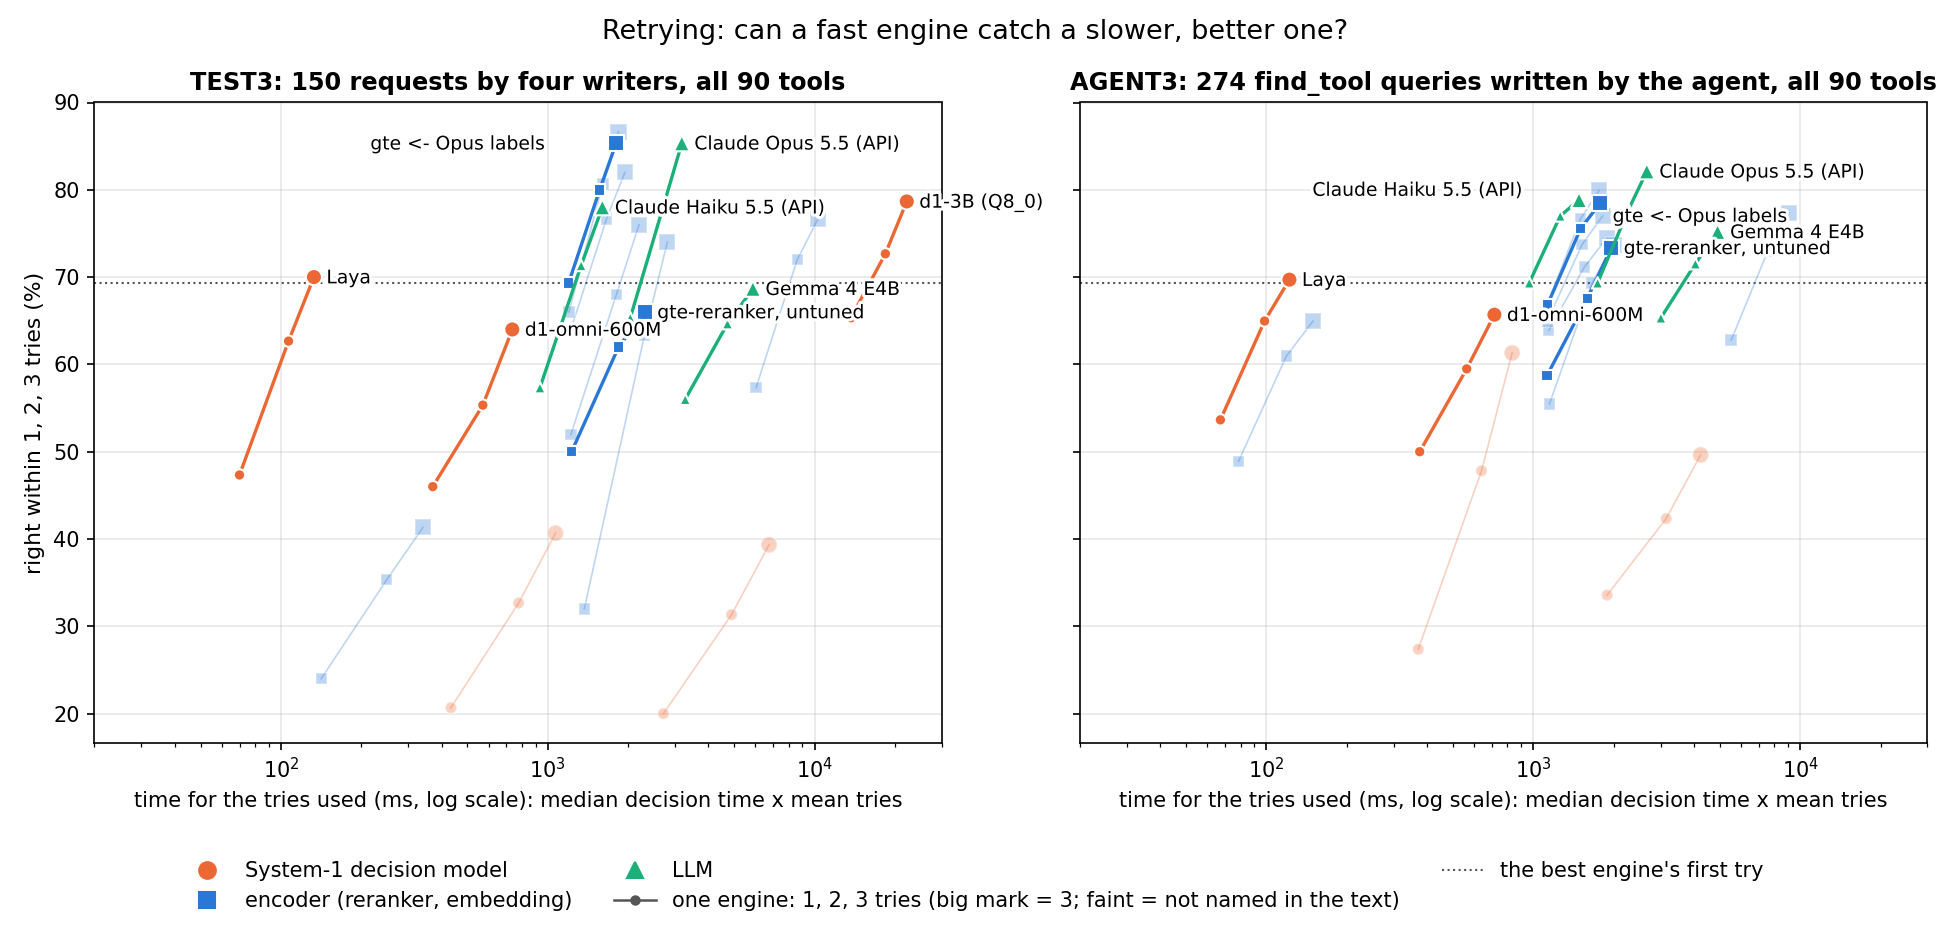
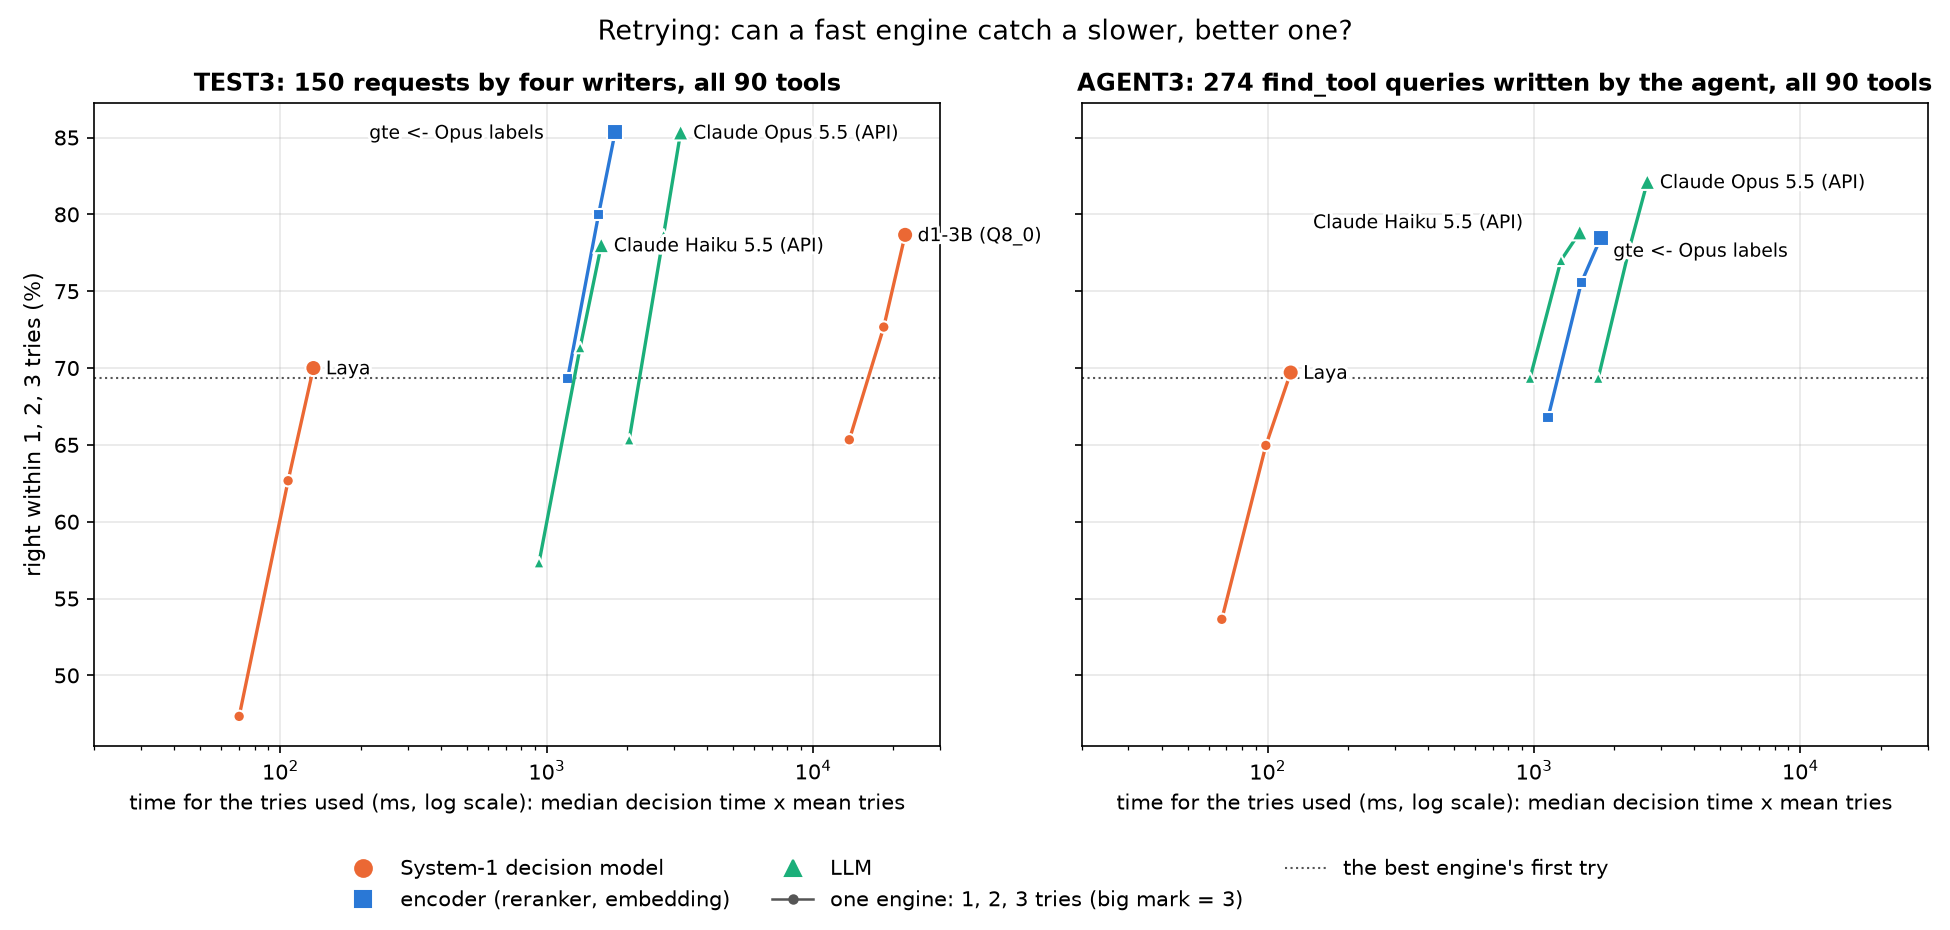
Study charts: only the engines the story turns on (8 in the hero, 5 in retries); the table keeps every engine

diff --git a/bench/naga/plot.py b/bench/naga/plot.py
@@ -44,9 +44,10 @@ OFFSET = {"TEST3": {"gte-opus": (-60, 8), "gte-agreed": (-128, -4), "gte-haiku":
                      "gte-gemma4": (8, -6), "harrier-bi": (8, -12),
                      "qwen3-rerank": (8, 4)}}
 YLIM = (15, 75)
-# The engines the study's text names stand out in the retries chart; the rest are drawn faint, unlabelled.
+# The charts show only the engines the story needs (Matteo 2026-10-21); the table keeps every engine.
+CHART = ("gte-rerank", "gte-haiku", "gte-opus", "laya", "d1-3b", "gemma4", "haiku", "opus")
+RETRY = ("laya", "gte-opus", "d1-3b", "haiku", "opus")
 RETRY_OFFSET = {"TEST3": {"gte-opus": (-118, -3)}, "AGENT3": {"haiku": (-128, 2), "gte-opus": (6, -9)}}
-NAMED = ("laya", "d1-omni", "gte-rerank", "gte-opus", "d1-3b", "gemma4", "haiku", "opus")
 
 
 def load(engine, key):
@@ -85,7 +86,7 @@ def frontier(pts):
 
 def points(key):
     pts = {}
-    for e in ENGINES:
+    for e in CHART:
         rows = load(e, key)
         if rows:
             pts[e] = (ms(rows), 100 * within(rows, 1) / len(rows))
@@ -163,12 +164,13 @@ def retries():
         best = max(ENGINES, key=lambda e: within(load(e, key) or [], 1) / len(load(e, key) or [0]))
         rows = load(best, key)
         ax.axhline(100 * within(rows, 1) / len(rows), ls=":", color="#555", lw=1)
-        for e, (label, kind) in ENGINES.items():
+        for e in RETRY:
+            label, kind = ENGINES[e]
             rows = load(e, key)
             if not rows:
                 continue
             m, c = KINDS[kind]
-            on = e in NAMED
+            on = True
             xs = [ms(rows) * tries(rows, k) for k in (1, 2, 3)]
             ys = [100 * within(rows, k) / len(rows) for k in (1, 2, 3)]
             ax.plot(xs, ys, color=c, lw=1.6 if on else 0.8, alpha=1 if on else 0.3, zorder=3 if on else 2)
@@ -182,7 +184,7 @@ def retries():
         ax.set_xlabel("time for the tries used (ms, log scale): median decision time x mean tries", fontsize=10)
     axes[0].set_ylabel("right within 1, 2, 3 tries (%)", fontsize=10.5)
     legend(fig, [plt.Line2D([], [], color="#555", lw=1.2, marker="o", markersize=4,
-                            label="one engine: 1, 2, 3 tries (big mark = 3; faint = not named in the text)"),
+                            label="one engine: 1, 2, 3 tries (big mark = 3)"),
                  plt.Line2D([], [], color="#555", lw=1, ls=":", label="the best engine's first try")], ncol=3)
     fig.suptitle("Retrying: can a fast engine catch a slower, better one?", fontsize=13)
     fig.tight_layout(rect=(0, 0.1, 1, 1))

diff --git a/docs/studies/naga-decisions.md b/docs/studies/naga-decisions.md
@@ -4,7 +4,7 @@ An assistant that drives the [naga](https://github.com/TheMattHub/naga) simulati
 
 <div class="pareto-chart" data-src="../assets/engines.json"><noscript><img src="../screenshots/hero.png" alt="Right first time against median latency, per engine, on TEST3 and AGENT3"></noscript></div>
 
-The grey step line is the Pareto frontier: the engines that no other engine beats on both speed and accuracy. Point at an engine, or at a kind in the legend, to see that kind's own frontier.
+The grey step line is the Pareto frontier: the engines that no other engine beats on both speed and accuracy. Point at an engine, or at a kind in the legend, to see that kind's own frontier. The charts show the eight engines the story turns on; the table below lists every engine we tried.
 
 ## How we test
 
